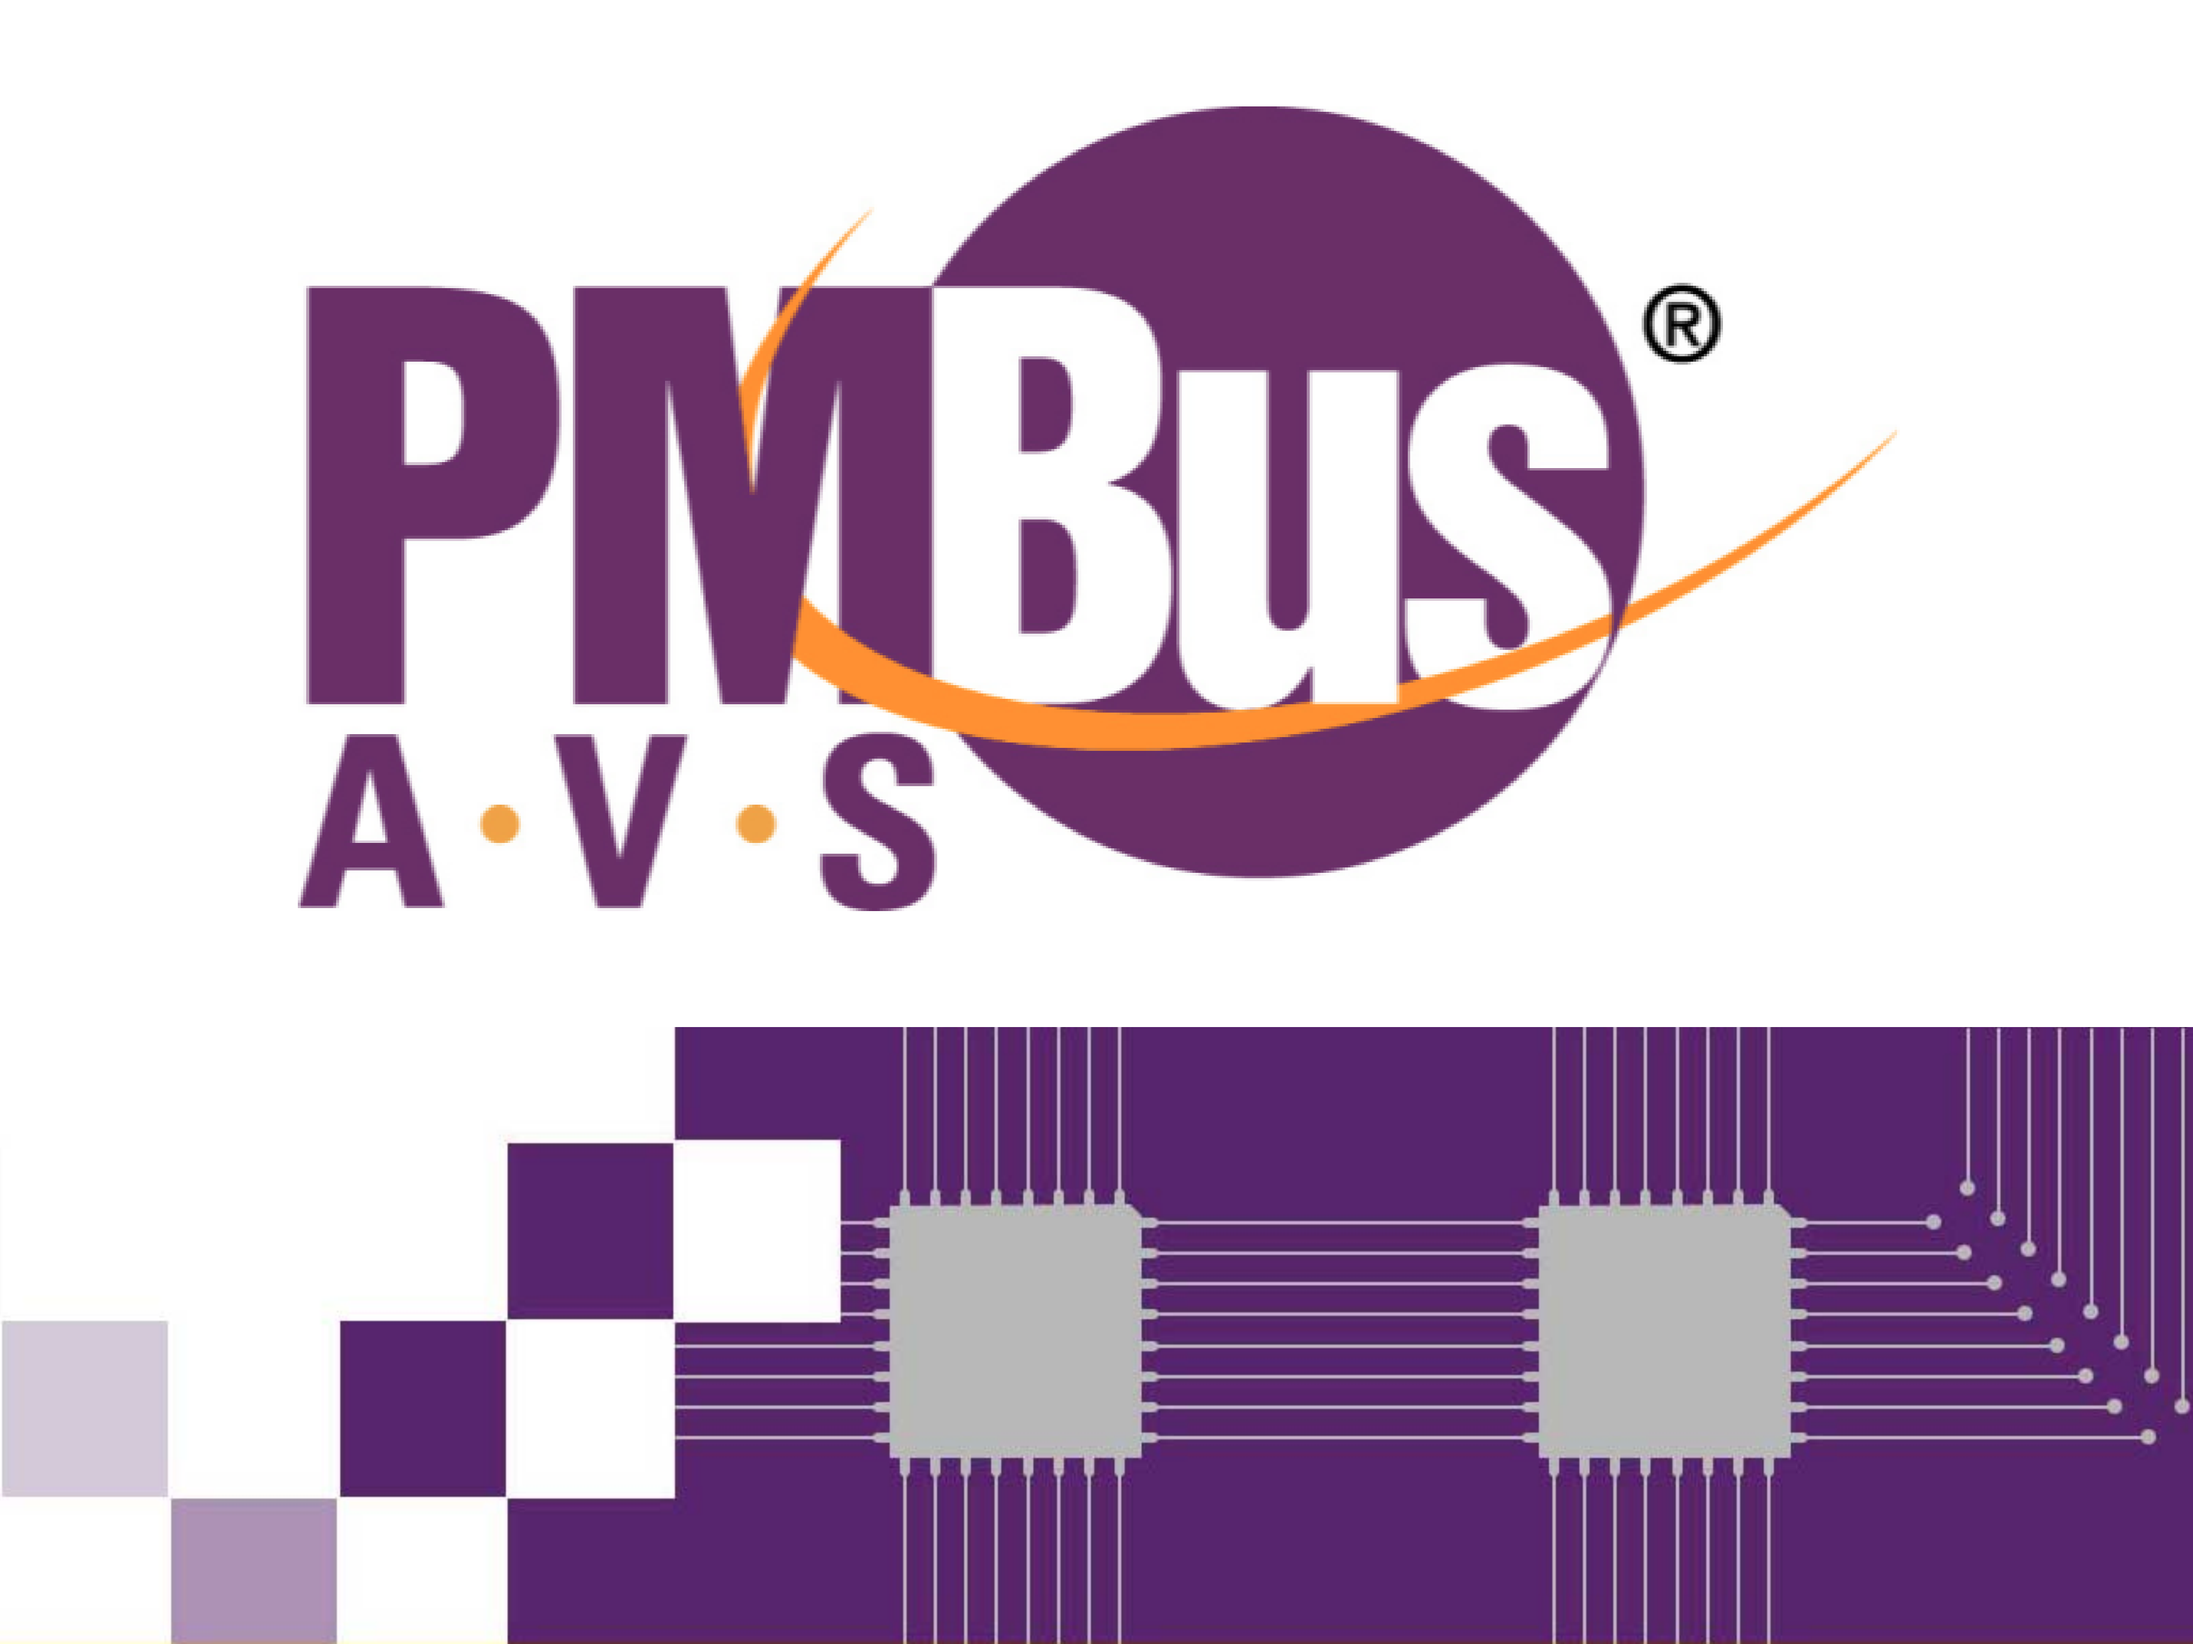
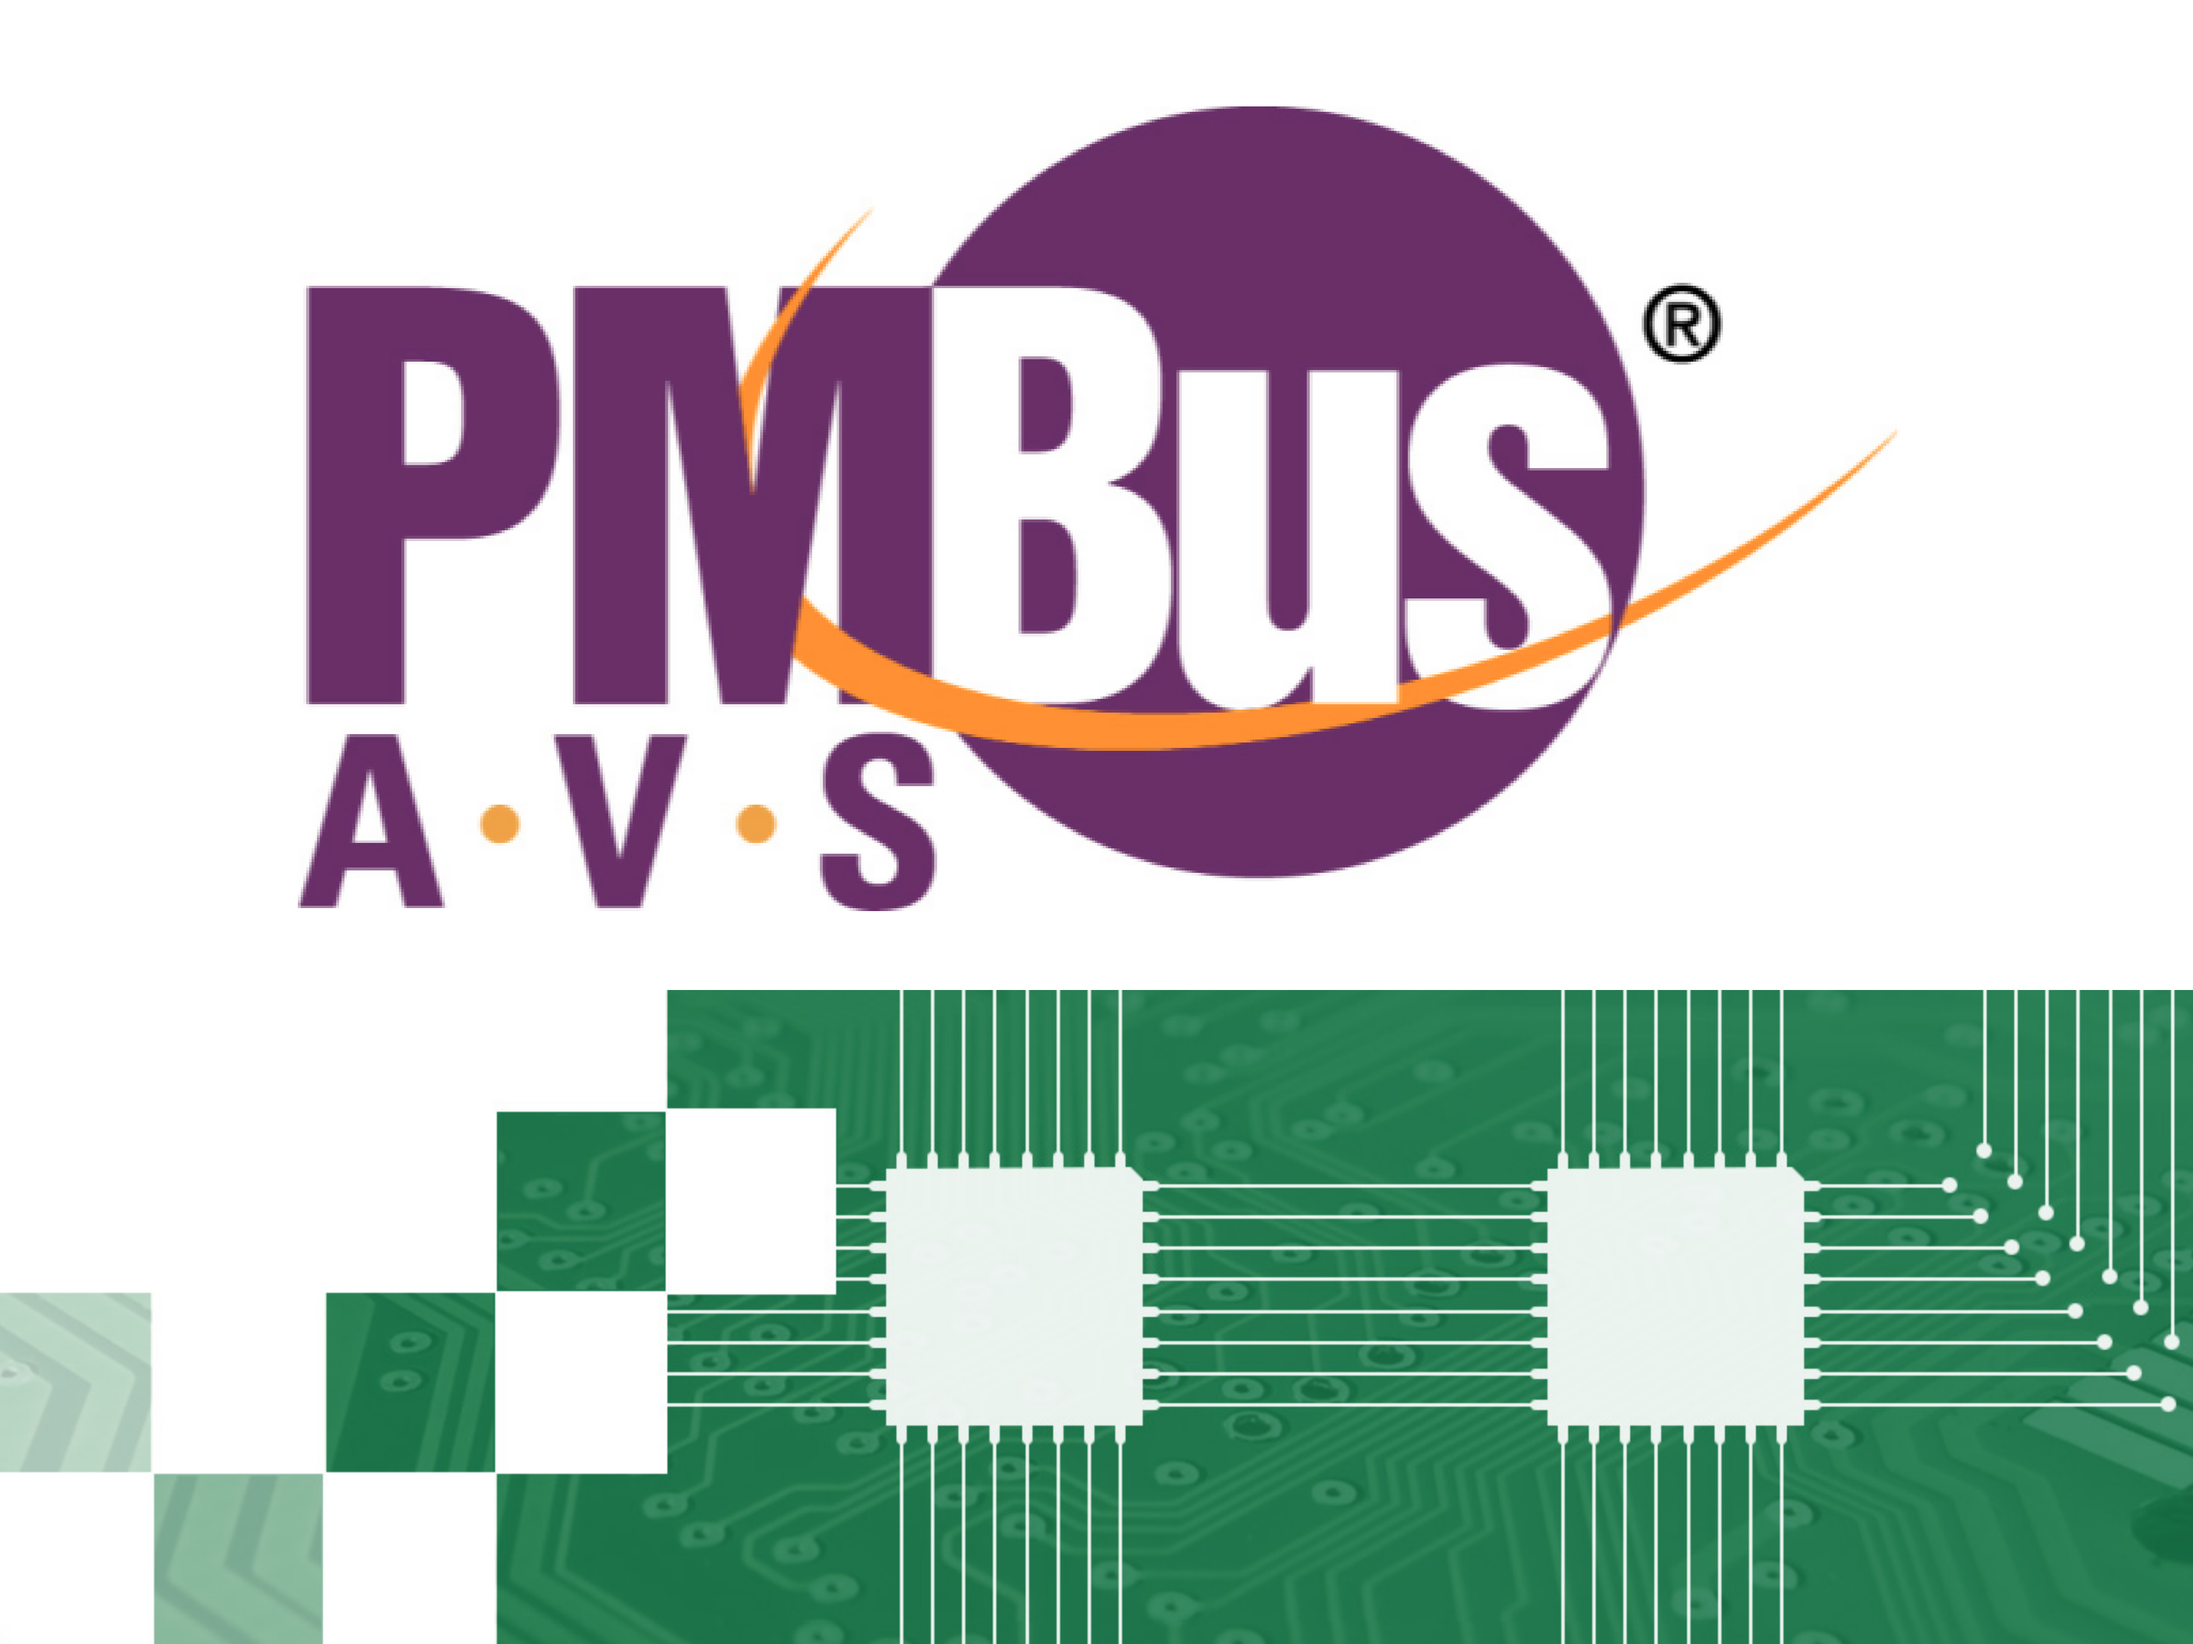
New theme image / minor color changes

diff --git a/style.css b/style.css
@@ -18,9 +18,9 @@ Tags: featured-images, translation-ready, custom-menu
 /* @media (min-width: 768px) {
 
 .site-main ul.products li.product {
-    width: 100%;
-    float: none;
-    margin: 0;
+  width: 100%;
+  float: none;
+  margin: 0;
 }
 
 .site-main ul.products {
@@ -35,17 +35,17 @@ margin: 1em 0;
 }
 
 .site-main ul.products li.product div.one_third {
-    width: 100%;
-    float: left;
-    margin: 0;
-    text-align: left;
-    background-color: #eee;
-    border-left: 1px solid;
-    border-top: 1px solid;
-    padding: 1em 2em;
-    box-sizing: border-box;
-    flex-grow: 1;
-    overflow: hidden;
+  width: 100%;
+  float: left;
+  margin: 0;
+  text-align: left;
+  background-color: #eee;
+  border-left: 1px solid;
+  border-top: 1px solid;
+  padding: 1em 2em;
+  box-sizing: border-box;
+  flex-grow: 1;
+  overflow: hidden;
 }
 
 */
@@ -102,4 +102,12 @@ tr:nth-child(even) {
   .rwd-break {
     display:none;
   }
+}
+
+.et-fixed-header {
+  background-color: #28794F !important;
+}
+
+#top-header {
+  background-color: #28794F !important;
 }
